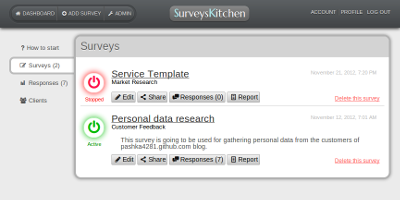
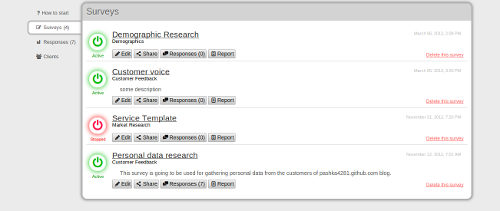
styles upd

diff --git a/app/assets/stylesheets/marketing.css.scss b/app/assets/stylesheets/marketing.css.scss
@@ -22,7 +22,7 @@
 	text-decoration: none;
 	font-size: 23px;
 	margin-left: -66px;
-	background-color: rgb(136, 136, 136);
+	background-color: rgb(124, 124, 179);
 	padding: 5px;
 	border-radius: 10px;
 	-webkit-box-shadow: inset 0px 1px 1px 0px rgba(255, 255, 255, 0.2), 0px 1px 2px 0px rgba(0, 0, 0, 0.5);
@@ -65,7 +65,7 @@
 	margin: 12px;
 	font-size: 16px;
 	font-family: "Sanchez", serif;
-	color: #5E2B2B;
+	color: rgb(48, 48, 48);
 	-webkit-box-shadow: 0 0px 8px #242424;
 	-moz-box-shadow: 0 0px 8px #242424;
 	box-shadow: 0 0px 8px #242424;
@@ -75,11 +75,12 @@
 		display: inline;
 		float: left;
 	}
-	h3{ margin-bottom: 15px; }
+	h3{ margin-bottom: 15px; margin-top: 15px; font-weight: 700 }
+	h2{ margin-bottom: 15px; font-size: 32px; color: rgb(170, 114, 100); text-align: center; }
 	ol{
 		li{ 
 			margin-bottom: 8px; line-height: 20px; 
-			h4{ font-weight: bold; }
+			h4{ font-weight: bold; color: rgb(47, 58, 116);margin-top: 7px; }
 		}
 	}
 }
@@ -108,8 +109,28 @@
 		padding: 7px;
 		float: left;
 		width: 252px;
-		margin: 10px;
+		margin: 25px 10px 10px 10px;
 		border: 2px solid #ccc;
-		background-color: #fff;
+		background-color: rgb(247, 247, 247);
+		height: 250px;
+		&.popular{
+			height: 280px;
+			margin: 10px 10px 10px 10px;
+			border: 2px solid rgb(122, 151, 126);
+		}
+		.start-btn{
+			text-decoration: none;
+			color: rgb(255, 255, 255);
+			font-size: 13px;
+			padding: 7px;
+			background-color: rgb(137, 195, 233);
+			display: inline-block;
+			font-weight: 700;
+			border: 2px solid rgb(106, 154, 240);
+			&:hover{
+				background-color: rgb(124, 176, 211);
+				border: 2px solid rgb(47, 121, 255);
+			}
+		}
 	}
 }
